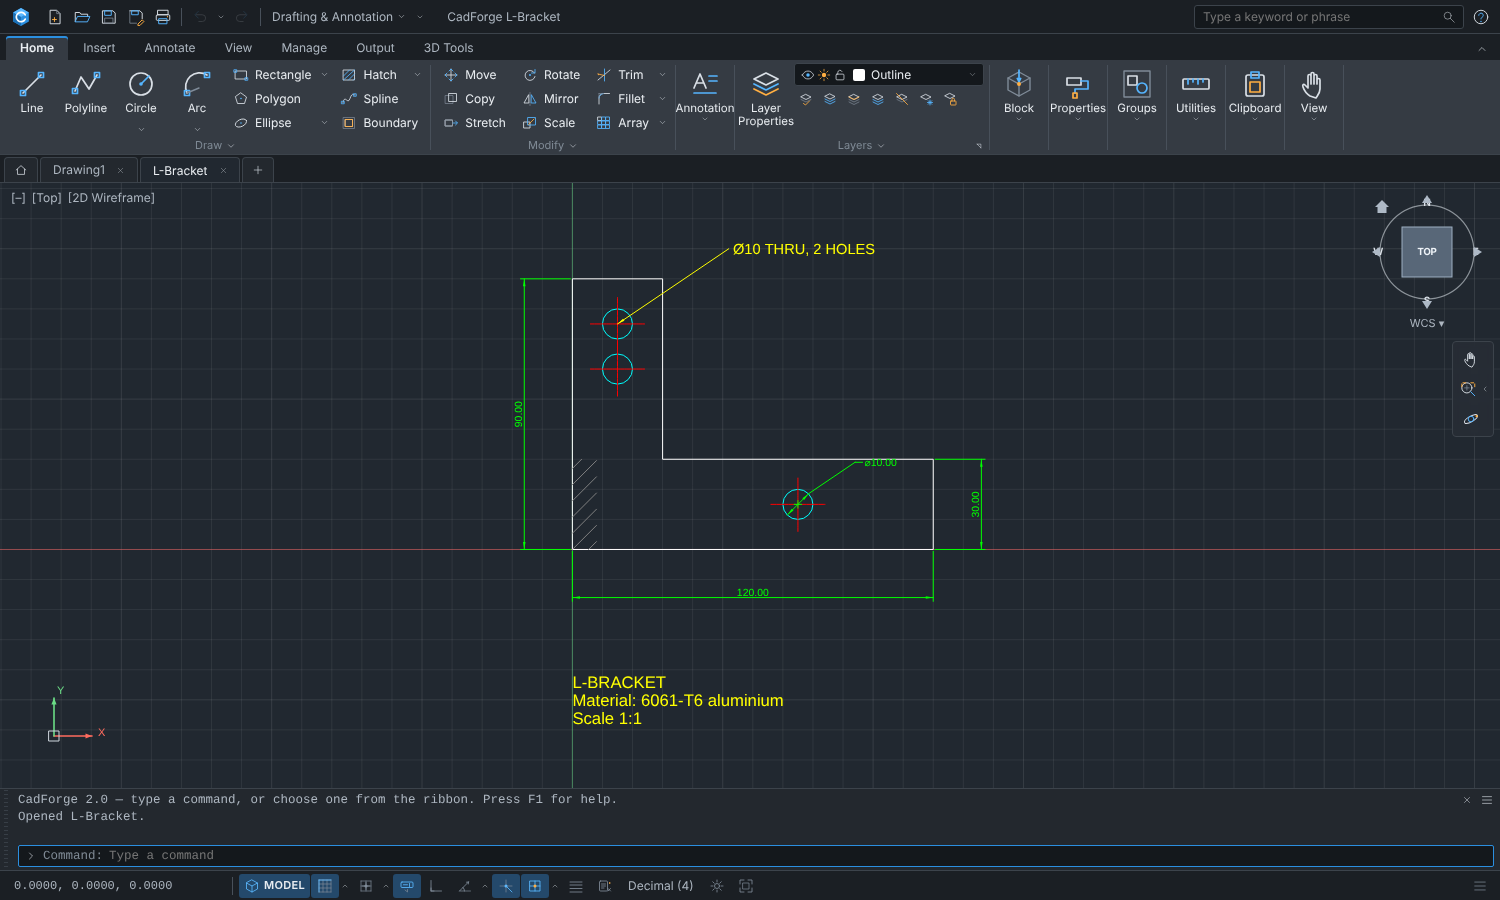
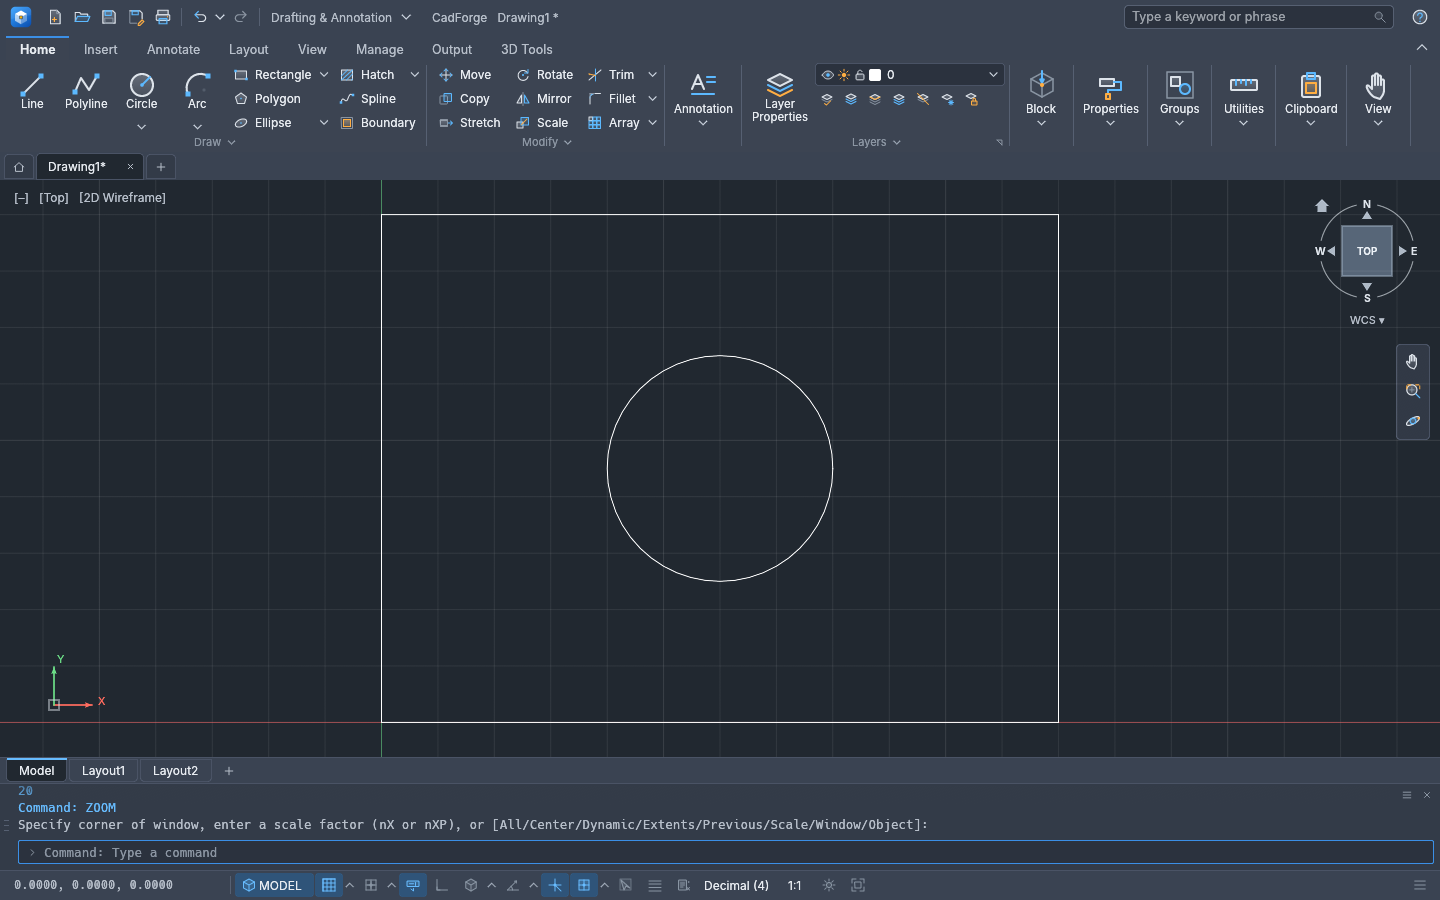
Slate colour scheme by default, with System (follows the OS), Light and Classic
The chrome is slate blue around the near-black drawing area, controls are a
little roomier and rounder. The choice is kept between sessions, and THEME at
the command line switches it as well as Options.

Claude-Session: https://claude.ai/code/session_01DkUvef2Zoanx2FfpYuuj2H

diff --git a/crates/cadforge-app/src/theme.rs b/crates/cadforge-app/src/theme.rs
@@ -1,4 +1,6 @@
-//! Design tokens (AutoCAD-style dark theme and a light theme) and egui visuals / fonts.
+//! Design tokens and egui visuals / fonts. Four colour schemes: Dark (slate chrome around a near-black drawing area,
+//! the default), Light, Classic (the earlier near-black chrome) and System, which follows the operating system's (or
+//! browser's) light or dark appearance as it changes.
 use eframe::egui::{self, Color32, FontData, FontDefinitions, FontFamily};
 use std::sync::Arc;
 
@@ -36,7 +38,7 @@ pub struct Tokens {
     pub ic_g: Color32,
 }
 
-pub const DARK: Tokens = Tokens {
+pub const CLASSIC: Tokens = Tokens {
     dark: true,
     canvas: c(0x212830),
     chrome: c(0x1b1f24),
@@ -64,6 +66,86 @@ pub const DARK: Tokens = Tokens {
     ic_o: c(0xffae42),
     ic_g: c(0x7bd88f),
 };
+
+/// The default: slate-blue chrome, roomier controls, a drawing area near black.
+pub const DARK: Tokens = Tokens {
+    dark: true,
+    canvas: c(0x212830),
+    chrome: c(0x3a4352),
+    chrome2: c(0x333b48),
+    ribbon: c(0x3c4452),
+    ribbon_title: c(0x353d4a),
+    raised: c(0x4f596b),
+    sep: c(0x566072),
+    border: c(0x4a5365),
+    text: c(0xe8ecf1),
+    text2: c(0xb7bfca),
+    text3: c(0x8c96a3),
+    accent: c(0x3b8fe6),
+    accent2: c(0x67bcff),
+    accent_soft: c(0x2f5479),
+    hover: c(0x586377),
+    press: c(0x2f6299),
+    input: c(0x2b323e),
+    warn: c(0xffb454),
+    err: c(0xff8a80),
+    ok: c(0x7ddc92),
+    ic_l: c(0xdde3ea),
+    ic_k: c(0x8995a3),
+    ic_a: c(0x5cb9ff),
+    ic_o: c(0xffae42),
+    ic_g: c(0x7bd88f),
+};
+
+/// The colour scheme the user chose (the THEME setting).
+#[derive(Clone, Copy, Debug, Default, PartialEq, Eq)]
+pub enum ThemePref {
+    /// Follow the operating system's light / dark appearance, live.
+    System,
+    Light,
+    #[default]
+    Dark,
+    Classic,
+}
+
+impl ThemePref {
+    pub const ALL: [ThemePref; 4] = [ThemePref::System, ThemePref::Dark, ThemePref::Light, ThemePref::Classic];
+
+    pub fn as_str(self) -> &'static str {
+        match self {
+            ThemePref::System => "system",
+            ThemePref::Light => "light",
+            ThemePref::Dark => "dark",
+            ThemePref::Classic => "classic",
+        }
+    }
+
+    pub fn label(self) -> &'static str {
+        match self {
+            ThemePref::System => "System",
+            ThemePref::Light => "Light",
+            ThemePref::Dark => "Dark",
+            ThemePref::Classic => "Classic",
+        }
+    }
+
+    pub fn parse(s: &str) -> Option<ThemePref> {
+        ThemePref::ALL.into_iter().find(|t| t.as_str().eq_ignore_ascii_case(s.trim()))
+    }
+
+    /// The colours to show, given the appearance the system reports (dark when it reports none).
+    pub fn tokens(self, system: Option<egui::Theme>) -> Tokens {
+        match self {
+            ThemePref::Light => LIGHT,
+            ThemePref::Dark => DARK,
+            ThemePref::Classic => CLASSIC,
+            ThemePref::System => match system {
+                Some(egui::Theme::Light) => LIGHT,
+                _ => DARK,
+            },
+        }
+    }
+}
 
 pub const LIGHT: Tokens = Tokens {
     dark: false,
@@ -130,7 +212,7 @@ pub fn apply(ctx: &egui::Context, t: &Tokens) {
     v.selection.bg_fill = t.accent_soft;
     v.selection.stroke = egui::Stroke::new(1.0, t.accent2);
     v.hyperlink_color = t.accent2;
-    let r = egui::CornerRadius::same(2);
+    let r = egui::CornerRadius::same(4);
     for w in [&mut v.widgets.noninteractive, &mut v.widgets.inactive, &mut v.widgets.hovered, &mut v.widgets.active, &mut v.widgets.open] {
         w.corner_radius = r;
     }
@@ -154,9 +236,9 @@ pub fn apply(ctx: &egui::Context, t: &Tokens) {
     ctx.set_visuals_of(if t.dark { egui::Theme::Dark } else { egui::Theme::Light }, v);
     ctx.set_theme(if t.dark { egui::Theme::Dark } else { egui::Theme::Light });
     ctx.all_styles_mut(|s| {
-        s.spacing.item_spacing = egui::vec2(6.0, 4.0);
-        s.spacing.button_padding = egui::vec2(8.0, 3.0);
-        s.spacing.interact_size.y = 20.0;
+        s.spacing.item_spacing = egui::vec2(6.0, 5.0);
+        s.spacing.button_padding = egui::vec2(8.0, 4.0);
+        s.spacing.interact_size.y = 22.0;
         s.text_styles.insert(egui::TextStyle::Body, egui::FontId::proportional(12.5));
         s.text_styles.insert(egui::TextStyle::Button, egui::FontId::proportional(12.5));
         s.text_styles.insert(egui::TextStyle::Small, egui::FontId::proportional(11.0));

diff --git a/crates/cadforge-app/src/app.rs b/crates/cadforge-app/src/app.rs
@@ -41,6 +41,8 @@ pub struct UiState {
     pub ribbon_hidden: HashSet<String>,
     pub flyout: Option<String>,
     pub dark: bool,
+    /// The colour scheme chosen (THEME); `dark` follows what it shows.
+    pub theme: crate::theme::ThemePref,
     pub workspace: String,
     pub cmd: CmdLine,
     pub show_props: bool,
@@ -91,7 +93,7 @@ pub struct CadForgeApp {
     pub cui_saved: u64,
     pub last_cmd_row: Option<egui::Rect>,
     pub pal: PalState,
-    pub pending_theme: Option<bool>,
+    pub pending_theme: Option<crate::theme::ThemePref>,
     pub save_as_focused: bool,
     /// The linked data file DATALINKUPDATE asked for (a file chosen for it is read as this one).
     pub datalink_file: Option<String>,
@@ -130,6 +132,7 @@ impl CadForgeApp {
                 ribbon_hidden: HashSet::new(),
                 flyout: None,
                 dark: true,
+                theme: theme::ThemePref::default(),
                 workspace: "Drafting & Annotation".into(),
                 cmd: CmdLine { lines: 3, lines_f: 3.0, ..Default::default() },
                 show_props: false,
@@ -179,6 +182,11 @@ impl CadForgeApp {
         #[cfg(target_arch = "wasm32")]
         crate::install_hook(app.h.clone(), app.rect_hook.clone());
         app.load_user_aliases();
+        if let Some(pref) = crate::platform::store_get("theme").and_then(|s| theme::ThemePref::parse(&s)) {
+            app.ui.theme = pref;
+            let _ = app.h.borrow_mut().setvar("THEME", pref.as_str());
+        }
+        app.show_theme(&cc.egui_ctx);
         app.load_customization();
         #[cfg(not(target_arch = "wasm32"))]
         {
@@ -247,11 +255,20 @@ impl CadForgeApp {
         self.ui.toast = Some((msg.to_string(), self.time + 3.2));
     }
 
-    pub fn set_dark(&mut self, ctx: &egui::Context, dark: bool) {
-        self.ui.dark = dark;
-        self.t = if dark { theme::DARK } else { theme::LIGHT };
+    /// Switch to colour scheme `pref` and remember it for the next start.
+    pub fn set_theme(&mut self, ctx: &egui::Context, pref: theme::ThemePref) {
+        self.ui.theme = pref;
+        self.show_theme(ctx);
+        crate::platform::store_set("theme", pref.as_str());
+        let _ = self.h.borrow_mut().setvar("THEME", pref.as_str());
+    }
+
+    /// Apply the colours of the chosen scheme (for System, of the appearance the system reports now).
+    fn show_theme(&mut self, ctx: &egui::Context) {
+        let t = self.ui.theme.tokens(ctx.system_theme());
+        self.ui.dark = t.dark;
+        self.t = t;
         theme::apply(ctx, &self.t);
-        let _ = self.h.borrow_mut().setvar("THEME", if dark { "dark" } else { "light" });
     }
 
     /// Start a command from the UI (ribbon, menu, QAT): cancels whatever is running.
@@ -361,8 +378,17 @@ impl eframe::App for CadForgeApp {
         self.time = ctx.input(|i| i.time);
         self.h.borrow_mut().now = self.time * 1000.0;
         self.autosave(&ctx);
-        if let Some(dark) = self.pending_theme.take() {
-            self.set_dark(&ctx, dark);
+        if let Some(pref) = self.pending_theme.take() {
+            self.set_theme(&ctx, pref);
+        }
+        // THEME typed at the command line (SETVAR / THEME) switches the scheme too
+        let typed = self.h.borrow().sysvars.string("THEME");
+        if let Some(pref) = theme::ThemePref::parse(&typed).filter(|p| *p != self.ui.theme) {
+            self.set_theme(&ctx, pref);
+        }
+        // System follows the operating system's appearance as it changes
+        if self.ui.theme == theme::ThemePref::System && self.ui.theme.tokens(ctx.system_theme()).canvas != self.t.canvas {
+            self.show_theme(&ctx);
         }
         self.store_customization();
         let locale = self.h.borrow().sysvars.string("LOCALE");

diff --git a/crates/cadforge-app/src/dialogs/settings.rs b/crates/cadforge-app/src/dialogs/settings.rs
@@ -204,7 +204,7 @@ impl CadForgeApp {
 
 pub struct OptionsState {
     pub tab: usize,
-    pub dark: bool,
+    pub theme: crate::theme::ThemePref,
     pub cursor: String,
     pub lw: bool,
     pub cube: bool,
@@ -232,7 +232,7 @@ impl OptionsState {
         let sc = sv.int("SHORTCUTMENU");
         OptionsState {
             tab: 0,
-            dark: app.ui.dark,
+            theme: app.ui.theme,
             cursor: fnum(sv.real("CURSORSIZE")),
             lw: sv.int("LWDISPLAY") != 0,
             cube: sv.int("NAVVCUBE") != 0,
@@ -254,7 +254,7 @@ impl OptionsState {
     }
     pub fn apply(&self, app: &mut CadForgeApp) {
         let n = |s: &str, lo: f64, hi: f64| s.trim().parse::<f64>().map_or(lo, |v| v.round().clamp(lo, hi));
-        app.pending_theme = Some(self.dark);
+        app.pending_theme = Some(self.theme);
         app.set_sv("CURSORSIZE", n(&self.cursor, 1.0, 100.0));
         app.set_sv("LWDISPLAY", self.lw as i64 as f64);
         app.set_sv("NAVVCUBE", self.cube as i64 as f64);
@@ -282,8 +282,9 @@ impl CadForgeApp {
                 self.group(ui, "Colour scheme", |ui| {
                     ui.horizontal(|ui| {
                         ui.label("Theme");
-                        ui.selectable_value(&mut s.dark, true, "Dark");
-                        ui.selectable_value(&mut s.dark, false, "Light");
+                        for pref in crate::theme::ThemePref::ALL {
+                            ui.selectable_value(&mut s.theme, pref, pref.label());
+                        }
                     });
                 });
                 self.group(ui, "Language", |ui| {

diff --git a/crates/cadforge-app/src/dialogs/simple.rs b/crates/cadforge-app/src/dialogs/simple.rs
@@ -50,7 +50,7 @@ impl CadForgeApp {
             };
             let _ = aliases;
             ui.label(RichText::new(format!("{cmds} commands · written in Rust · runs natively and in the browser.")).small().color(t.text3));
-            ui.label(RichText::new(format!("Theme: {}", if t.dark { "Dark" } else { "Light" })).small().color(t.text3));
+            ui.label(RichText::new(format!("Theme: {}", self.ui.theme.label())).small().color(t.text3));
         });
         self.ok_cancel(ui, None, Some("Close"), &[])
     }
